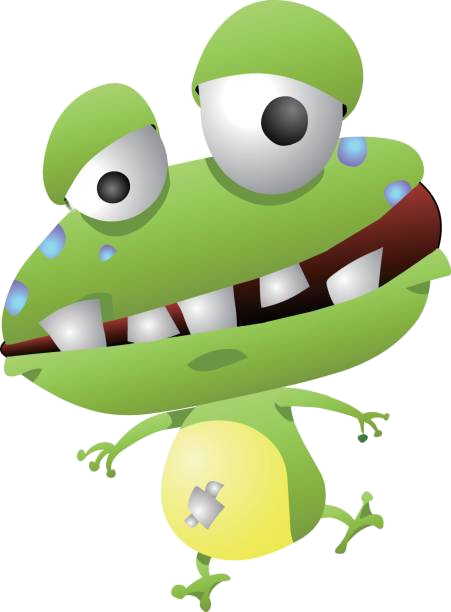
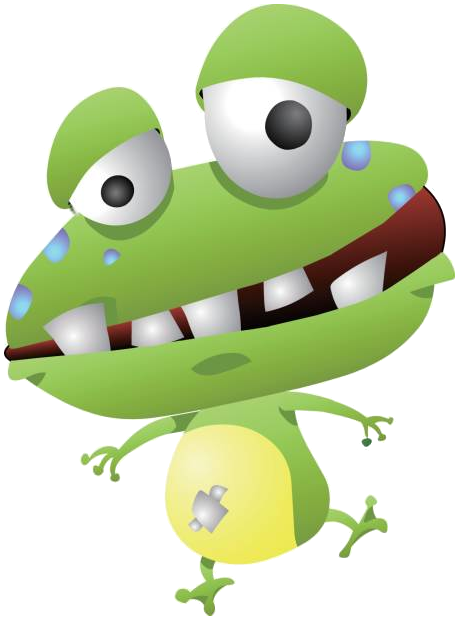
img resized

diff --git a/vite-project/src/components/ComponentDefi.tsx b/vite-project/src/components/ComponentDefi.tsx
@@ -81,7 +81,7 @@ const ComponentQuiz: React.FC<ComponentDefiProps> = ({ findCardDefi, player, set
     const handleWin = (): JSX.Element => {
         return (
             <div className='display-winloose'>
-                <img src={winFrog} width={451} height={612} alt="win frog img" />
+                <img src={winFrog} width={460} height={620} alt="win frog img" />
             </div>
         )
     };
@@ -89,7 +89,7 @@ const ComponentQuiz: React.FC<ComponentDefiProps> = ({ findCardDefi, player, set
     const handleLoose = (): JSX.Element => {
         return (
             <div className='display-winloose'>
-                <img src={lostFrog} width={451} height={612} alt="lost frog img" />
+                <img src={lostFrog} width={460} height={620} alt="lost frog img" />
             </div>
         )
     };

diff --git a/vite-project/src/components/ComponentQuiz.tsx b/vite-project/src/components/ComponentQuiz.tsx
@@ -71,7 +71,7 @@ const ComponentQuiz: React.FC<ComponentQuizProps> = ({ findCardQuiz, player, set
     const handleWin = (): JSX.Element => {
         return (
             <div className='display-winloose'>
-                <img src={winFrog} width={451} height={612} alt="win frog img" />
+                <img src={winFrog} width={460} height={620} alt="win frog img" />
             </div>
         )
     };
@@ -79,7 +79,7 @@ const ComponentQuiz: React.FC<ComponentQuizProps> = ({ findCardQuiz, player, set
     const handleLoose = (): JSX.Element => {
         return (
             <div className='display-winloose'>
-                <img src={lostFrog} width={451} height={612} alt="lost frog img" />
+                <img src={lostFrog} width={460} height={620} alt="lost frog img" />
             </div>
         )
     };
